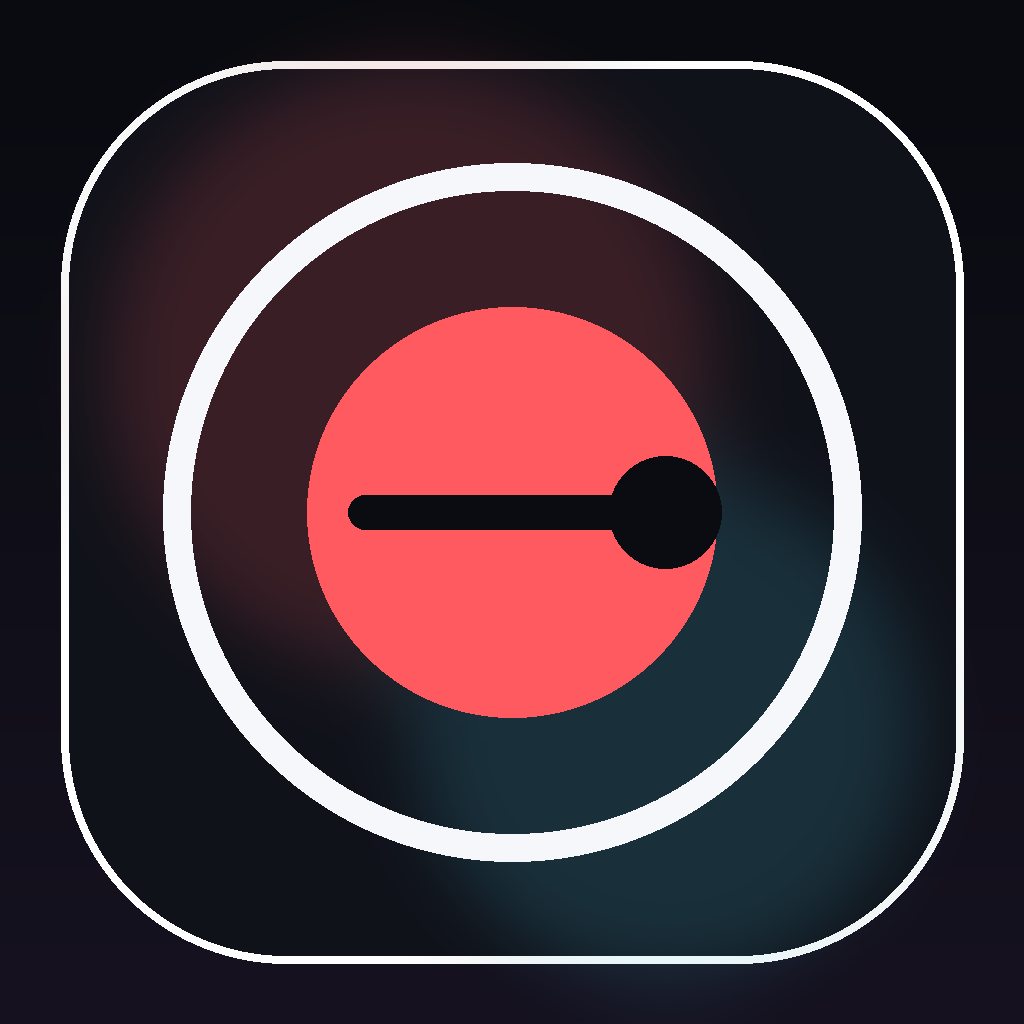
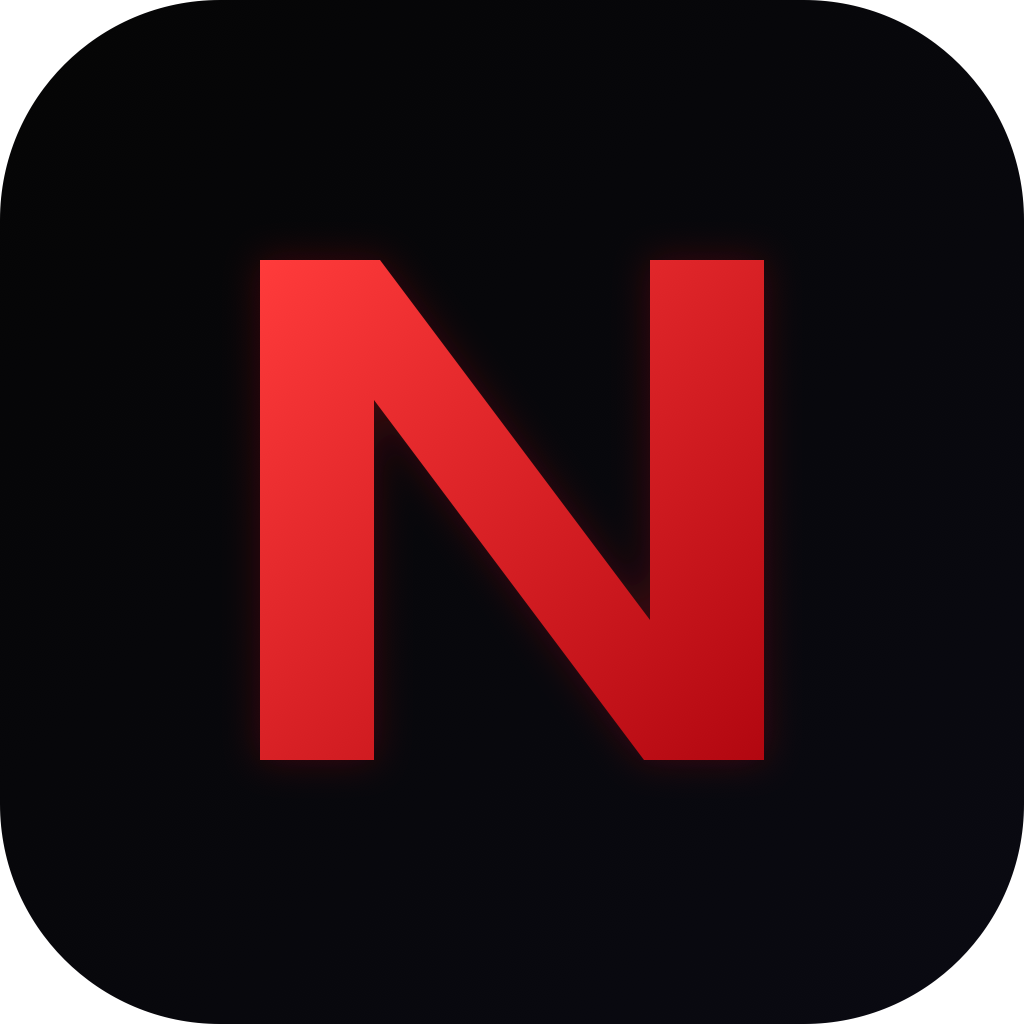
chore: ship nexora branding release

diff --git a/app/components/NexoraIntro.tsx b/app/components/NexoraIntro.tsx
@@ -1,0 +1,100 @@
+import React, { useEffect } from "react";
+import { StyleSheet, Text, View } from "react-native";
+import { LinearGradient } from "expo-linear-gradient";
+import Animated, {
+  useAnimatedStyle,
+  useSharedValue,
+  withDelay,
+  withTiming,
+} from "react-native-reanimated";
+
+type NexoraIntroProps = {
+  onFinish?: () => void;
+  subtitle?: string;
+  autoFinishMs?: number | null;
+};
+
+export function NexoraIntro({
+  onFinish,
+  subtitle = "ALL YOUR CONTENT. ONE PLACE.",
+  autoFinishMs = null,
+}: NexoraIntroProps) {
+  const nOpacity = useSharedValue(0);
+  const nScale = useSharedValue(0.8);
+  const textOpacity = useSharedValue(0);
+  const textX = useSharedValue(30);
+  const subOpacity = useSharedValue(0);
+
+  useEffect(() => {
+    nOpacity.value = withTiming(1, { duration: 500 });
+    nScale.value = withTiming(1, { duration: 600 });
+
+    textOpacity.value = withDelay(400, withTiming(1, { duration: 500 }));
+    textX.value = withDelay(400, withTiming(0, { duration: 500 }));
+
+    subOpacity.value = withDelay(900, withTiming(1, { duration: 400 }));
+
+    if (autoFinishMs != null && onFinish) {
+      const timer = setTimeout(() => onFinish(), autoFinishMs);
+      return () => clearTimeout(timer);
+    }
+  }, [autoFinishMs, nOpacity, nScale, onFinish, subOpacity, textOpacity, textX]);
+
+  const nStyle = useAnimatedStyle(() => ({
+    opacity: nOpacity.value,
+    transform: [{ scale: nScale.value }],
+  }));
+
+  const textStyle = useAnimatedStyle(() => ({
+    opacity: textOpacity.value,
+    transform: [{ translateX: textX.value }],
+  }));
+
+  const subStyle = useAnimatedStyle(() => ({
+    opacity: subOpacity.value,
+  }));
+
+  return (
+    <View style={styles.container}>
+      <LinearGradient colors={["#050505", "#0B0B12"]} style={StyleSheet.absoluteFill} />
+
+      <View style={styles.center}>
+        <View style={styles.row}>
+          <Animated.Text style={[styles.n, nStyle]}>N</Animated.Text>
+          <Animated.Text style={[styles.text, textStyle]}>EXORA</Animated.Text>
+        </View>
+
+        <Animated.Text style={[styles.sub, subStyle]}>{subtitle}</Animated.Text>
+      </View>
+    </View>
+  );
+}
+
+const styles = StyleSheet.create({
+  container: {
+    flex: 1,
+    backgroundColor: "#050505",
+    justifyContent: "center",
+    alignItems: "center",
+  },
+  center: { alignItems: "center", paddingHorizontal: 24, gap: 16 },
+  row: { flexDirection: "row", alignItems: "center", gap: 16 },
+  n: {
+    fontSize: 110,
+    fontWeight: "900",
+    color: "#E50914",
+    textShadowColor: "rgba(229,9,20,0.4)",
+    textShadowRadius: 25,
+  },
+  text: {
+    fontSize: 90,
+    fontWeight: "800",
+    color: "#FFF",
+    letterSpacing: 8,
+  },
+  sub: {
+    color: "#AAA",
+    letterSpacing: 3,
+    textAlign: "center",
+  },
+});

diff --git a/app/features/onboarding/PremiumOnboardingFlow.tsx b/app/features/onboarding/PremiumOnboardingFlow.tsx
@@ -2,6 +2,7 @@ import { Ionicons } from "@expo/vector-icons";
 import { useEffect, useMemo, useState } from "react";
 import {
   ActivityIndicator,
+  Image,
   Pressable,
   ScrollView,
   StyleSheet,
@@ -287,6 +288,10 @@ export function PremiumOnboardingFlow({ mode = "first-launch", onFinished }: Pre
 
         {step === 1 ? (
           <View style={styles.heroCard}>
+            <View style={styles.heroArtworkWrap}>
+              <Image source={require("../../assets/images/intro.png")} style={styles.heroArtwork} resizeMode="cover" />
+              <View style={styles.heroArtworkOverlay} />
+            </View>
             <PulseBrandMark size={86} subtitle="Your premium streaming hub" />
             <Text style={styles.heroEyebrow}>One subscription layer. Zero noise.</Text>
             <Text style={styles.heroTitle}>All your content. One place.</Text>
@@ -570,6 +575,23 @@ const styles = StyleSheet.create({
   heroCard: {
     paddingTop: 42,
     gap: 20,
+  },
+  heroArtworkWrap: {
+    width: "100%",
+    height: 220,
+    borderRadius: 28,
+    overflow: "hidden",
+    borderWidth: 1,
+    borderColor: COLORS.borderLight,
+    backgroundColor: COLORS.card,
+  },
+  heroArtwork: {
+    width: "100%",
+    height: "100%",
+  },
+  heroArtworkOverlay: {
+    ...StyleSheet.absoluteFillObject,
+    backgroundColor: "rgba(9,11,16,0.28)",
   },
   heroEyebrow: {
     color: COLORS.accent,

diff --git a/app/components/NexoraAppIcon.tsx b/app/components/NexoraAppIcon.tsx
@@ -1,0 +1,47 @@
+import React from "react";
+import Svg, {
+  Defs,
+  LinearGradient,
+  Stop,
+  Rect,
+  Path,
+  G,
+  Filter,
+  FeGaussianBlur,
+} from "react-native-svg";
+
+export function NexoraAppIcon({ size = 1024 }: { size?: number }) {
+  return (
+    <Svg width={size} height={size} viewBox="0 0 1024 1024">
+      <Defs>
+        <LinearGradient id="bg" x1="0" y1="0" x2="1" y2="1">
+          <Stop offset="0%" stopColor="#050505" />
+          <Stop offset="100%" stopColor="#0A0A12" />
+        </LinearGradient>
+
+        <LinearGradient id="red" x1="0" y1="0" x2="1" y2="1">
+          <Stop offset="0%" stopColor="#FF3B3B" />
+          <Stop offset="100%" stopColor="#B20710" />
+        </LinearGradient>
+
+        <Filter id="glow">
+          <FeGaussianBlur stdDeviation="14" />
+        </Filter>
+      </Defs>
+
+      <Rect width="1024" height="1024" rx="220" fill="url(#bg)" />
+
+      <G opacity="0.25" filter="url(#glow)">
+        <Path
+          d="M260 760V260H380L650 620V260H764V760H644L374 400V760H260Z"
+          fill="#E50914"
+        />
+      </G>
+
+      <Path
+        d="M260 760V260H380L650 620V260H764V760H644L374 400V760H260Z"
+        fill="url(#red)"
+      />
+    </Svg>
+  );
+}

diff --git a/app/app/_layout.tsx b/app/app/_layout.tsx
@@ -23,6 +23,7 @@ import { NexoraProvider } from "@/context/NexoraContext";
 import { UserStateProvider } from "@/context/UserStateContext";
 import { SafeAreaProvider } from "react-native-safe-area-context";
 import { PulseLaunchScreen } from "@/components/brand/PulseLaunchScreen";
+import { NexoraIntro } from "@/components/NexoraIntro";
 import { PremiumOnboardingFlow } from "@/features/onboarding/PremiumOnboardingFlow";
 import * as Updates from "expo-updates";
 import * as Notifications from "expo-notifications";
@@ -662,12 +663,7 @@ export default function RootLayout() {
   let content: React.ReactNode;
   if (!bootDone) {
     content = (
-      <PulseLaunchScreen
-        badge="Starting Nexora"
-        title="Preparing your premium workspace"
-        subtitle={bootMessage}
-        progress={bootProgress}
-      />
+      <NexoraIntro subtitle={bootMessage} />
     );
   } else if (!hasHydrated) {
     content = (

diff --git a/app/components/NexoraWordmark.tsx b/app/components/NexoraWordmark.tsx
@@ -1,0 +1,36 @@
+import React from "react";
+import { StyleSheet, Text, View } from "react-native";
+
+export function NexoraWordmark({ compact = false }: { compact?: boolean }) {
+  return (
+    <View style={styles.row}>
+      <Text style={[styles.n, compact ? styles.nCompact : null]}>N</Text>
+      <Text style={[styles.word, compact ? styles.wordCompact : null]}>EXORA</Text>
+    </View>
+  );
+}
+
+const styles = StyleSheet.create({
+  row: { flexDirection: "row", alignItems: "center", gap: 16 },
+  n: {
+    color: "#E50914",
+    fontSize: 90,
+    fontWeight: "900",
+    textShadowColor: "rgba(229,9,20,0.4)",
+    textShadowRadius: 20,
+  },
+  nCompact: {
+    fontSize: 64,
+    textShadowRadius: 14,
+  },
+  word: {
+    color: "#F5F5F7",
+    fontSize: 72,
+    fontWeight: "800",
+    letterSpacing: 6,
+  },
+  wordCompact: {
+    fontSize: 48,
+    letterSpacing: 4,
+  },
+});

diff --git a/app/babel.config.js b/app/babel.config.js
@@ -25,6 +25,7 @@ module.exports = function (api) {
           ],
         },
       ],
+      "react-native-reanimated/plugin",
     ],
   };
 };
